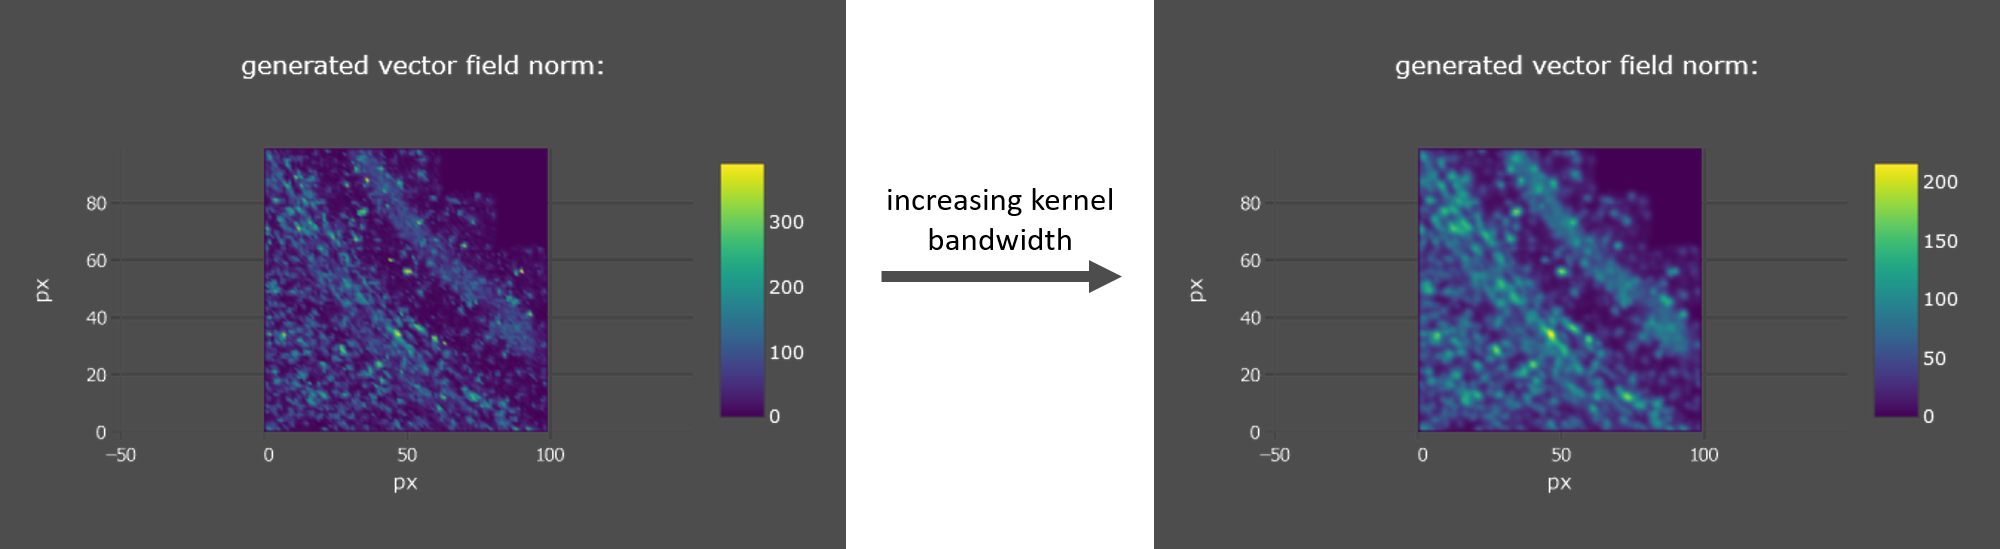
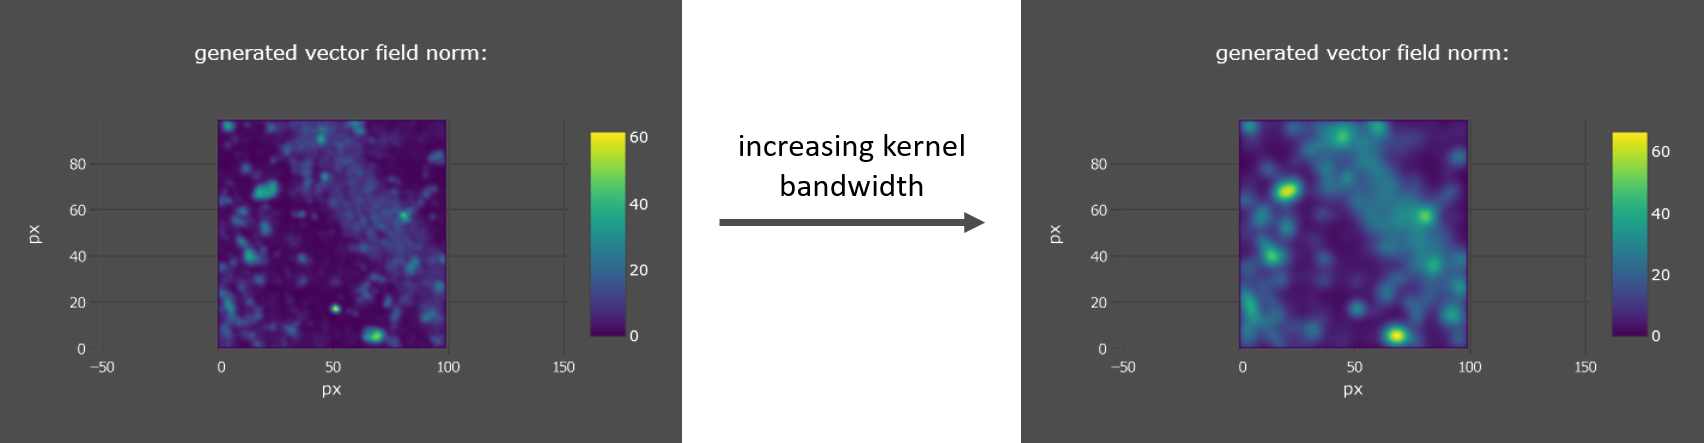
#18 updated screenshots

diff --git a/docs/source/usage.rst b/docs/source/usage.rst
@@ -76,11 +76,14 @@ SSAM-lite lets you interactively explore and adjust the plots to your needs.
 Alternatively, when hovering over a plot a small control panel will be displayed in the top right corner
 which offers some additional functionality.
 
+.. image:: ../res/imgs/Control Panel.png
+        :width: 300
+        :align: center
+        :alt: Control panel for plots    
+
+|
+
 Additional information on a data point can be displayed by hovering over it.
-
-..
-
-  TODO screenshot
 
 
 Data
@@ -201,8 +204,8 @@ the browser to recalculate (this might take a few moments).
 
 Once you are happy with your choice you can proceed with the actual analysis.
 
-For our example analysis we are going to proceed with a *Vector field width* of 500, a *KDE kernel bandwidth*
-of 1, and a *Cell assignment threshold* of 50.
+For our example analysis we are going to proceed with a *Vector field width* of 1500, a *KDE kernel bandwidth*
+of 3, and a *Cell assignment threshold* of 12.
 
 
 Analysis
